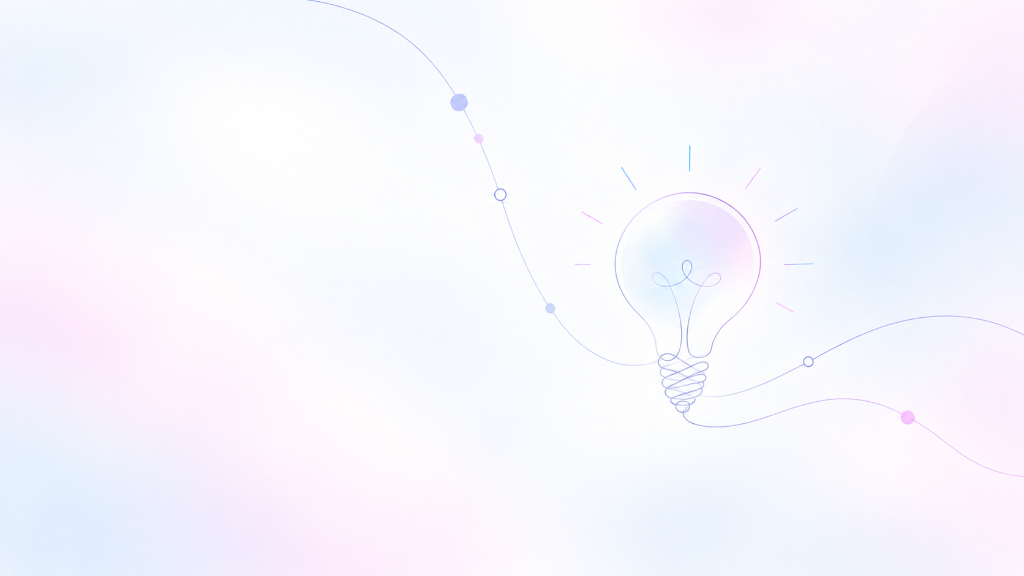
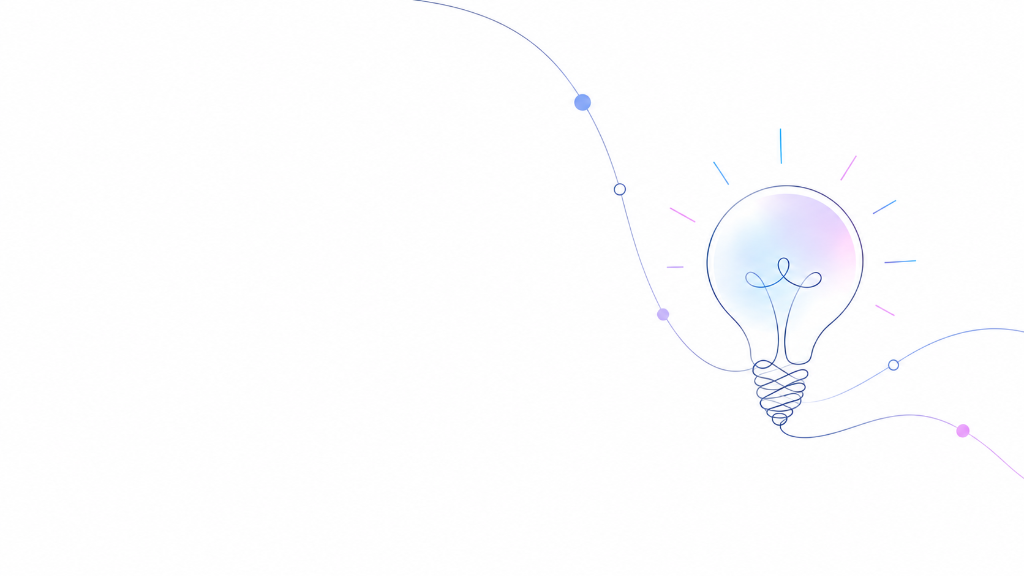
feat: update Ideas to Impact background to seamless pure white lightbulb artwork

diff --git a/components/sections/IdeasToImpactSection.tsx b/components/sections/IdeasToImpactSection.tsx
@@ -46,7 +46,7 @@ export const IdeasToImpactSection: React.FC = () => {
   return (
     <section
       aria-labelledby="ideas-to-impact-heading"
-      className="relative bg-slate-50 text-slate-900 py-20 sm:py-28 lg:py-36 border-b border-slate-200/80 overflow-hidden min-h-[820px] lg:min-h-[880px] flex items-center"
+      className="relative bg-white text-slate-900 py-20 sm:py-28 lg:py-36 border-b border-slate-200/80 overflow-hidden min-h-[820px] lg:min-h-[880px] flex items-center"
     >
       {/* Background Illustrated Artwork with Glowing Idea Bulb & Vector Circuits */}
       <div className="absolute inset-0 z-0">
@@ -58,8 +58,6 @@ export const IdeasToImpactSection: React.FC = () => {
           sizes="100vw"
           className="object-cover object-center lg:object-right select-none"
         />
-        {/* Soft atmospheric gradient for crisp typography contrast */}
-        <div className="absolute inset-0 bg-gradient-to-r from-white/90 via-white/40 to-transparent lg:from-white/40 lg:via-transparent lg:to-transparent" />
       </div>
 
       <Container size="default" className="relative z-10 w-full max-w-[1280px] flex flex-col justify-between h-full space-y-16 sm:space-y-24">
